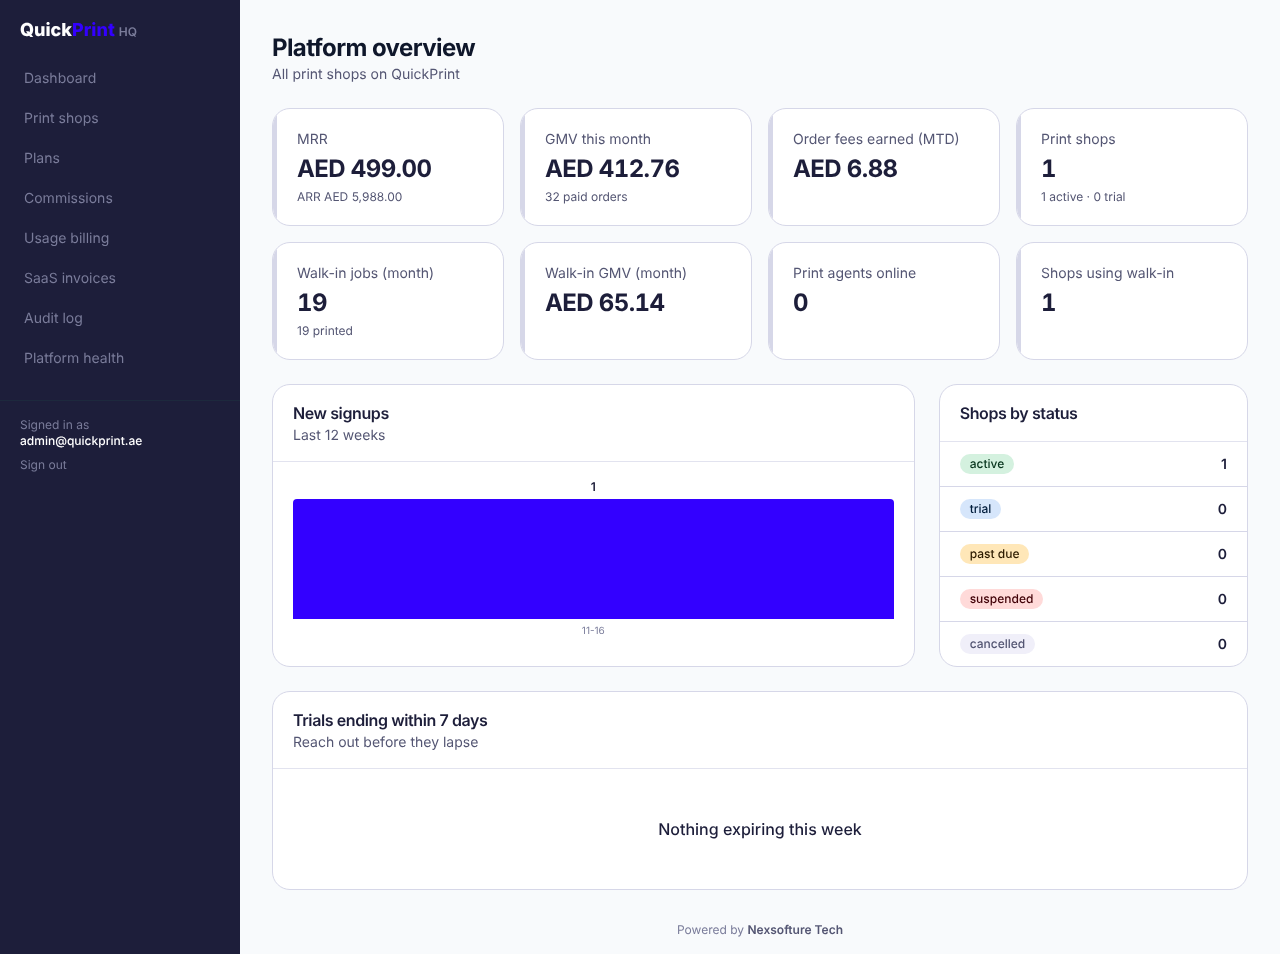
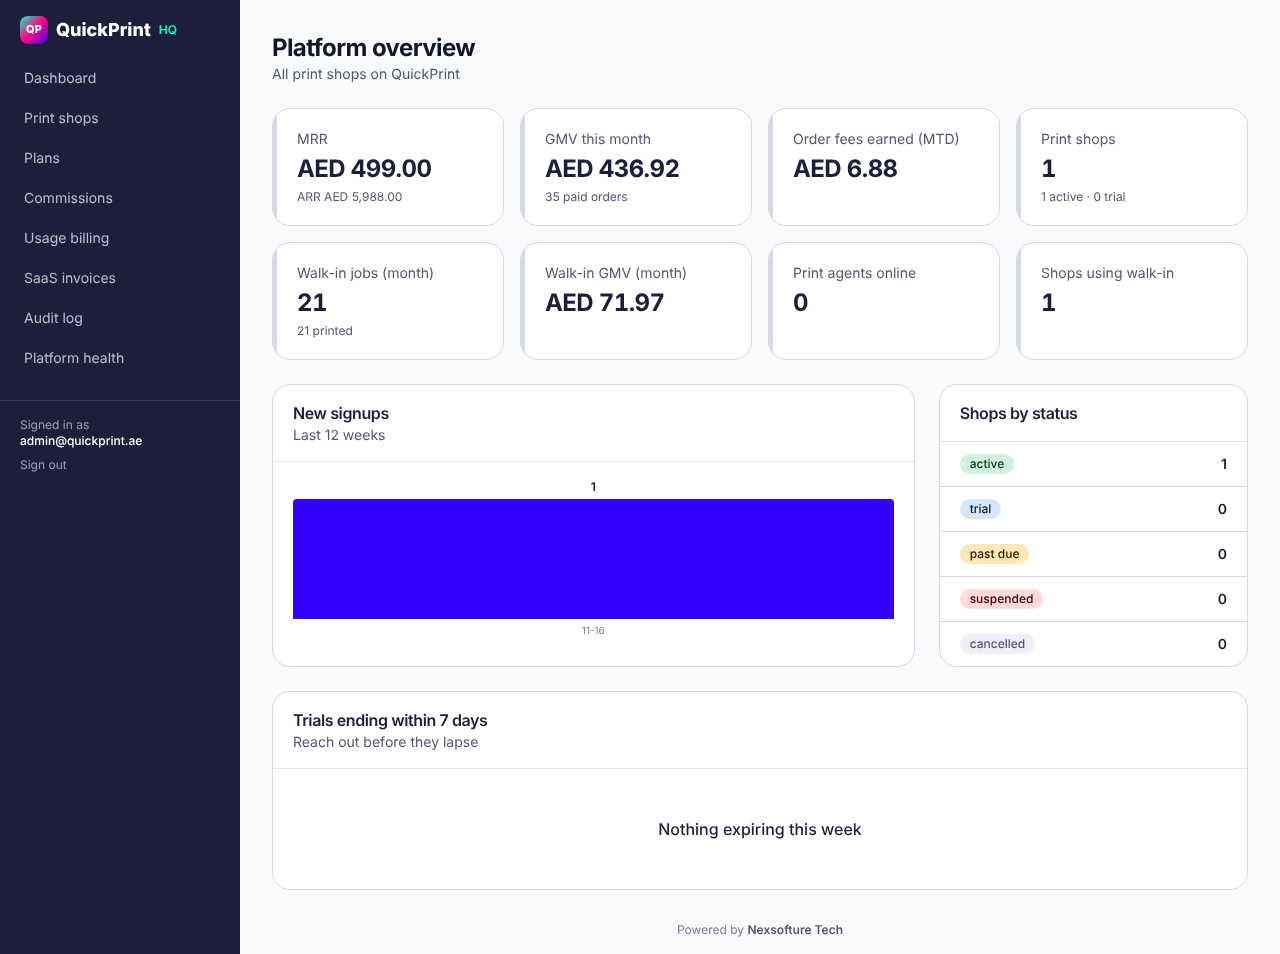
Pricing page: proper SEO title/description via pageMetadata
Claude-Session: https://claude.ai/code/session_01WwrbPqmSQck2PRSustQGXt

diff --git a/web/src/app/pricing/page.tsx b/web/src/app/pricing/page.tsx
@@ -1,3 +1,4 @@
+import { pageMetadata } from "@/lib/seo/metadata";
 import { MarketingFooter, MarketingNav } from "@/components/platform/MarketingNav";
 import { BillingExplainer, PricingTable } from "@/components/platform/PricingTable";
 import { PlanComparison } from "@/components/platform/PlanComparison";
@@ -6,7 +7,11 @@ import { FinalCta } from "@/components/platform/home/FinalCta";
 import { getPublicPlans, getPublicUsageRates } from "@/server/billing/public-plans";
 
 export const dynamic = "force-dynamic";
-export const metadata = { title: "Pricing" };
+export const metadata = pageMetadata({
+  title: "Print shop software pricing in AED: subscription or pay per order",
+  description: "QuickPrint UAE plans for print shops: a monthly subscription with no fee on orders, or pay per order with no monthly fee. WhatsApp and AI usage is pay as you go.",
+  path: "/pricing",
+});
 
 const PRICING_FAQ = [
   { q: "Is there a free trial?", a: "Yes. Every plan starts with 14 days free and no card. You can switch plans during the trial." },
